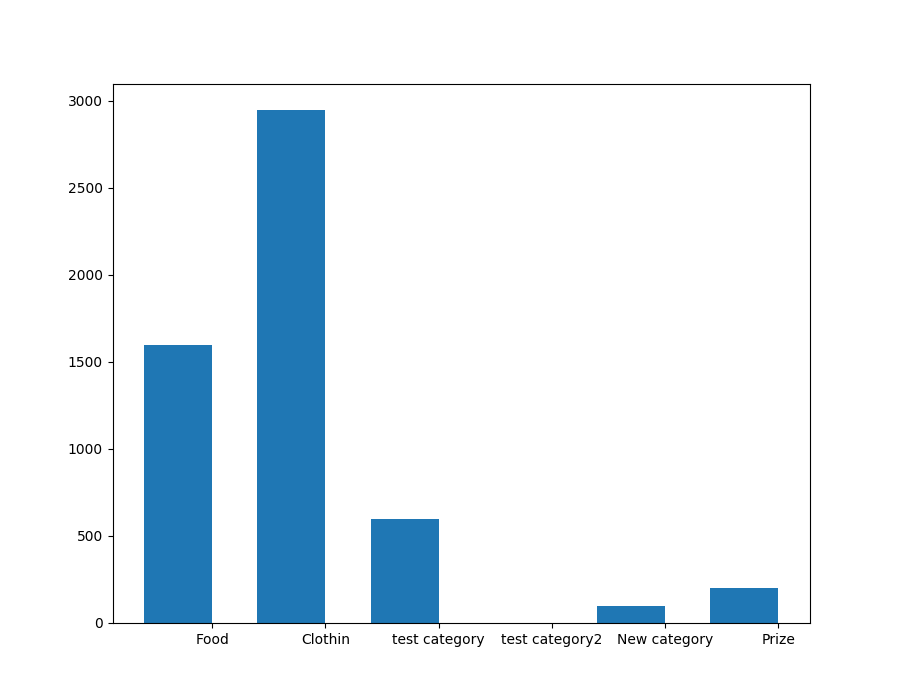
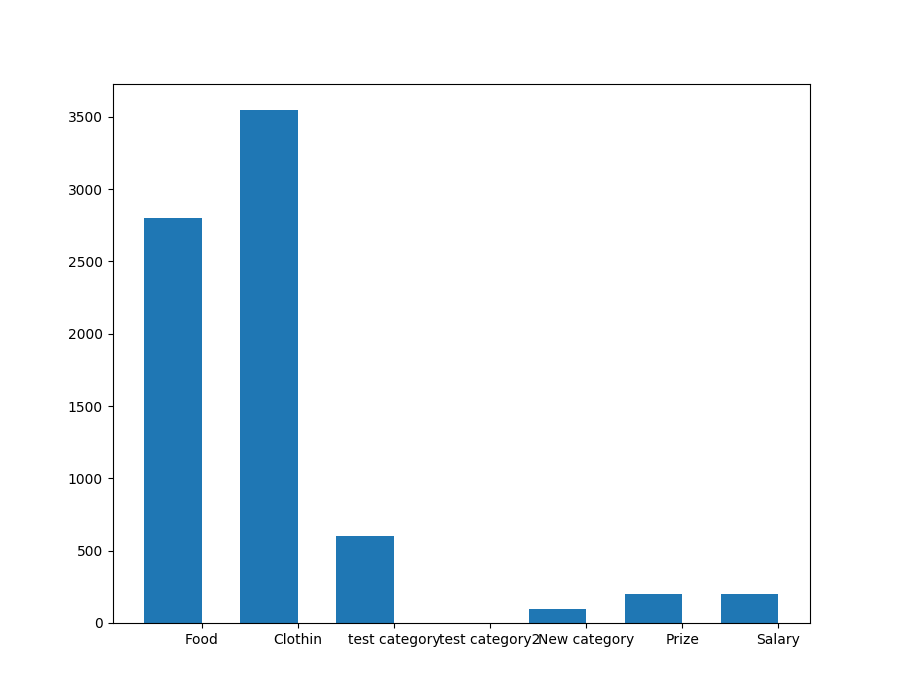
minor fixes

diff --git a/math_projects/alexandra/front/costs_page.html b/math_projects/alexandra/front/costs_page.html
@@ -41,195 +41,11 @@
 
             
             <tr>
-                <td>1</td>
-                <td>2019-03-01</td>
-                <td>100</td>
-                <td>Food</td>
-                <td>test cost</td>
-            </tr>
-
-            <tr>
-                <td>2</td>
-                <td>2019-03-09</td>
-                <td>150</td>
-                <td>Clothin</td>
-                <td>new test cost</td>
-            </tr>
-
-            <tr>
-                <td>3</td>
-                <td>2019-03-09</td>
-                <td>300</td>
-                <td>Food</td>
-                <td>...</td>
-            </tr>
-
-            <tr>
                 <td>4</td>
                 <td>2019-03-10</td>
                 <td>600</td>
                 <td>test category</td>
                 <td>...</td>
-            </tr>
-
-            <tr>
-                <td>5</td>
-                <td>2019-03-10</td>
-                <td>100</td>
-                <td>Clothin</td>
-                <td>..</td>
-            </tr>
-
-            <tr>
-                <td>6</td>
-                <td>2019-03-10</td>
-                <td>1000</td>
-                <td>Clothin</td>
-                <td>...</td>
-            </tr>
-
-            <tr>
-                <td>9</td>
-                <td>2019-04-01</td>
-                <td>200</td>
-                <td>Food</td>
-                <td>test record of web</td>
-            </tr>
-
-            <tr>
-                <td>10</td>
-                <td>2019-04-01</td>
-                <td>300</td>
-                <td>Clothin</td>
-                <td>test record of web2</td>
-            </tr>
-
-            <tr>
-                <td>11</td>
-                <td>2019-04-01</td>
-                <td>200</td>
-                <td>Food</td>
-                <td>test record of web</td>
-            </tr>
-
-            <tr>
-                <td>12</td>
-                <td>2019-04-01</td>
-                <td>200</td>
-                <td>Clothin</td>
-                <td>test from firefox</td>
-            </tr>
-
-            <tr>
-                <td>13</td>
-                <td>2019-04-01</td>
-                <td>200</td>
-                <td>Clothin</td>
-                <td>test from firefox</td>
-            </tr>
-
-            <tr>
-                <td>14</td>
-                <td>2019-04-01</td>
-                <td>200</td>
-                <td>Clothin</td>
-                <td>test from firefox</td>
-            </tr>
-
-            <tr>
-                <td>15</td>
-                <td>2019-04-01</td>
-                <td>300</td>
-                <td>Food</td>
-                <td>test record of web</td>
-            </tr>
-
-            <tr>
-                <td>16</td>
-                <td>2019-04-01</td>
-                <td>300</td>
-                <td>Clothin</td>
-                <td>test record of web2</td>
-            </tr>
-
-            <tr>
-                <td>17</td>
-                <td>2019-04-01</td>
-                <td>100</td>
-                <td>New category</td>
-                <td>testing</td>
-            </tr>
-
-            <tr>
-                <td>18</td>
-                <td>2019-04-01</td>
-                <td>300</td>
-                <td>Food</td>
-                <td>test record of web</td>
-            </tr>
-
-            <tr>
-                <td>19</td>
-                <td>2019-04-01</td>
-                <td>200</td>
-                <td>Prize</td>
-                <td>test record of web</td>
-            </tr>
-
-            <tr>
-                <td>20</td>
-                <td>2019-04-01</td>
-                <td>200</td>
-                <td>Food</td>
-                <td>test record of web2</td>
-            </tr>
-
-            <tr>
-                <td>21</td>
-                <td>2019-04-01</td>
-                <td>300</td>
-                <td>Clothin</td>
-                <td>test record of web2</td>
-            </tr>
-
-            <tr>
-                <td>22</td>
-                <td>2019-04-01</td>
-                <td>200</td>
-                <td>Clothin</td>
-                <td>test record of web</td>
-            </tr>
-
-            <tr>
-                <td>23</td>
-                <td>2019-04-01</td>
-                <td>200</td>
-                <td>Salary</td>
-                <td>test record of web2</td>
-            </tr>
-
-            <tr>
-                <td>24</td>
-                <td>2019-04-01</td>
-                <td>300</td>
-                <td>Clothin</td>
-                <td>test record of web</td>
-            </tr>
-
-            <tr>
-                <td>25</td>
-                <td>2019-04-01</td>
-                <td>300</td>
-                <td>Clothin</td>
-                <td>test record of web</td>
-            </tr>
-
-            <tr>
-                <td>26</td>
-                <td>2019-04-01</td>
-                <td>1000</td>
-                <td>Food</td>
-                <td>the last</td>
             </tr>
 
         </table>

diff --git a/math_projects/alexandra/front/home_page.html b/math_projects/alexandra/front/home_page.html
@@ -26,12 +26,12 @@
 
             <tr>
                 <td>Day</td>
-                <td>5000</td>
+                <td>5400</td>
             </tr>
 
             <tr>
                 <td>Month</td>
-                <td>5000</td>
+                <td>5400</td>
             </tr>
 
         </table>
@@ -66,7 +66,7 @@
 
             <tr>
                 <td>All time</td>
-                <td>20550</td>
+                <td>20350</td>
             </tr>
 
         </table>

diff --git a/math_projects/alexandra/cgi_bin/structure/html_redactors.py b/math_projects/alexandra/cgi_bin/structure/html_redactors.py
@@ -84,13 +84,19 @@ def update_cr_pages(chosen_category='', item_type=COST, chosen_type=''):
     :param item_type: COST or REVENUE
     :param chosen_type: Day/ Month/ Year/ All time
     """
+
+    # перевіряємо коретність категорії
+    categories = data_connector.get_categories(item_type=item_type)
+    if chosen_category not in name_dict(categories):
+        chosen_category = ''
+
     # зчитуємо всі записи
     items = data_connector.get_items(item_type=item_type, category=chosen_category)
 
     year, month, day = str(datetime.datetime.now().date()).split('-')
 
     # словник {"Category_ID": "Category_name"}
-    translator = id_dict(data_connector.get_categories(item_type=item_type))
+    translator = id_dict(categories)
 
     result = []      # відсіюємо ті, які не підходять
     for el in items:

diff --git a/math_projects/alexandra/server.py b/math_projects/alexandra/server.py
@@ -14,7 +14,7 @@ PORT = 8001             # Порт для з'єднання
 year, month, day = str(datetime.datetime.now().date()).split('-')
 
 update_cr_pages(item_type=COST)     # оновлюємо сторінки
-update_cr_pages(item_type=REVENUES)
+update_cr_pages(item_type=REVENUE)
 update_home_page(year, month, day)
 
 print('=== Local webserver ===')

diff --git a/math_projects/alexandra/cgi_bin/dialog_add_record.py b/math_projects/alexandra/cgi_bin/dialog_add_record.py
@@ -2,7 +2,7 @@
 # -*-encoding: utf-8-*-
 
 import cgi
-from .structure import *
+from structure import *
 import datetime
 
 
